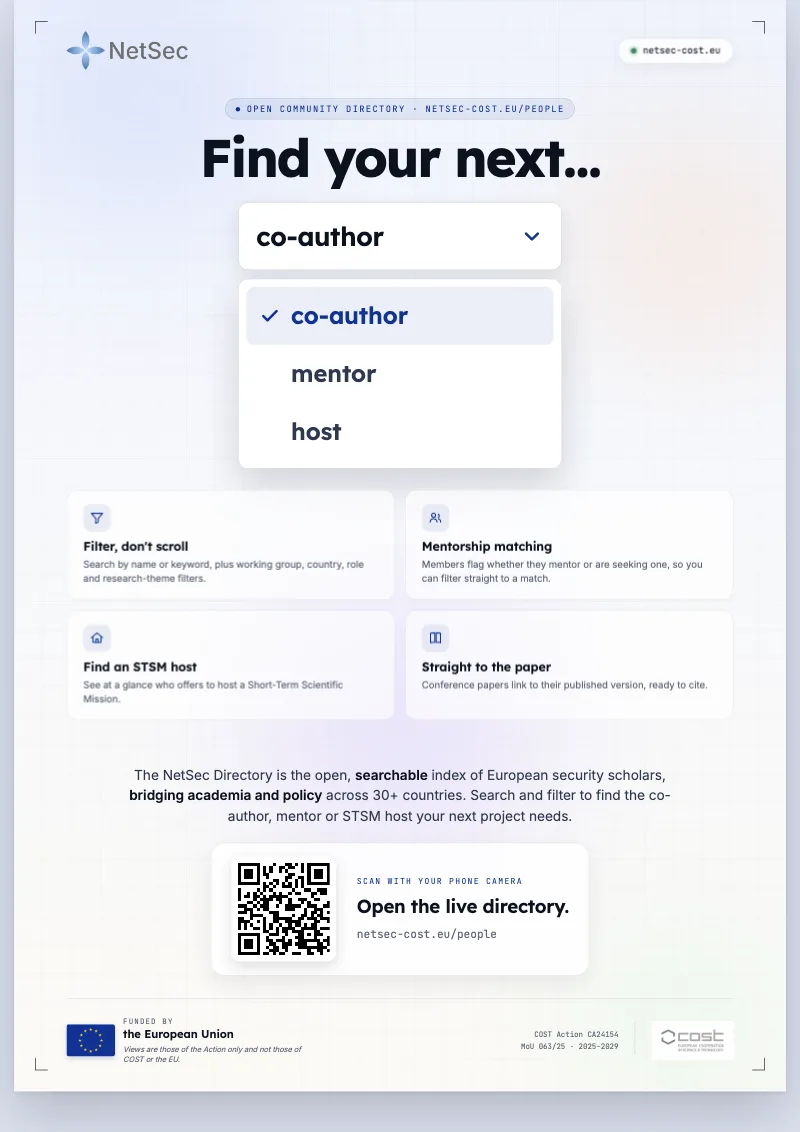
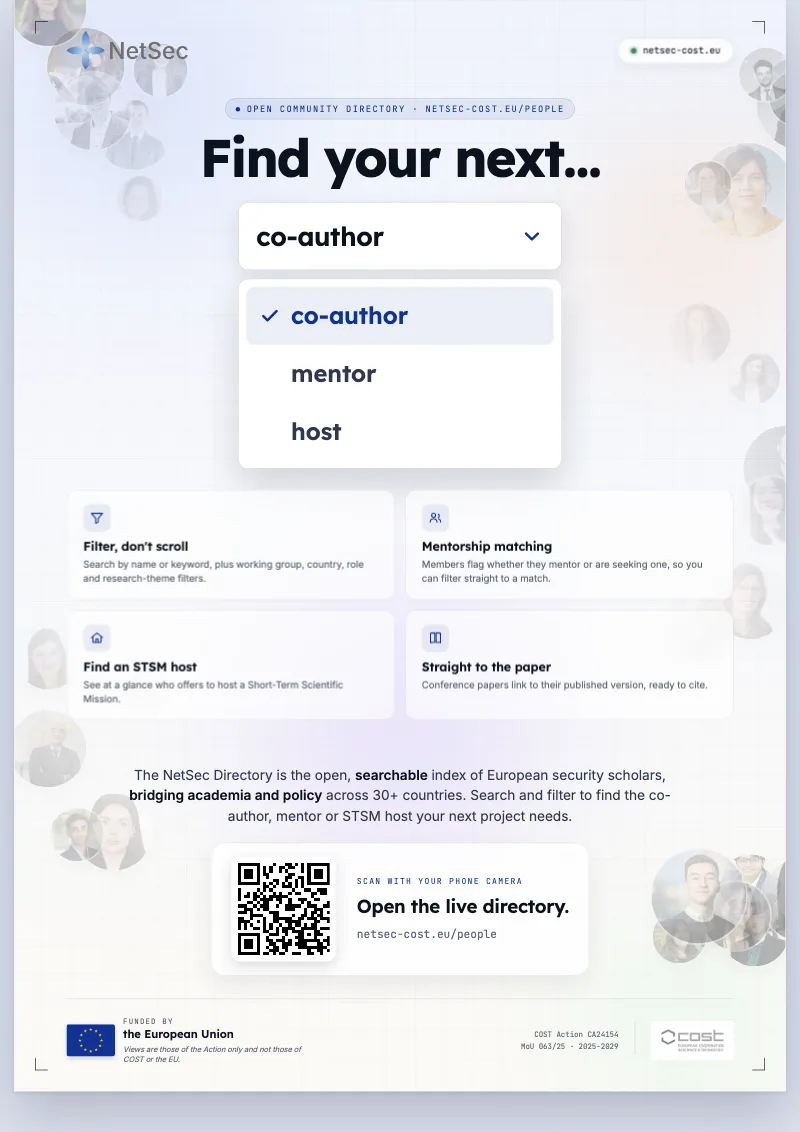
feat(press-kit): float member headshots behind the directory-search poster
The directory-search poster now carries a soft frame of member
headshots in its background: circular heads drift down the left and
right margins and corners, faded toward the centre with a radial mask
so the title, role selector, capability tiles, and QR stay fully
legible. It puts real faces on the otherwise abstract directory.

Heads are referenced from data/bios.json's photo set by root-relative
path, so the set tracks the directory. Print PNG and small PNG/WebP
previews re-rendered.

diff --git a/docs/promo/poster-find-your-next.html b/docs/promo/poster-find-your-next.html
@@ -140,6 +140,14 @@ h1.title .l{display:block}
 .qr-band .qr-side .qr-lab{font-family:var(--mono);font-size:13px;text-transform:uppercase;letter-spacing:.16em;color:var(--accent);margin-bottom:9px}
 .qr-band .qr-side .qr-h{font-family:var(--serif);font-weight:600;font-size:30px;letter-spacing:-.015em;color:var(--ink);margin-bottom:8px}
 .qr-band .qr-side .qr-u{font-family:var(--mono);font-size:18px;color:var(--muted)}
+
+  /* Floating member heads framing the content (left/right gutters), softly masked */
+  .faces{position:absolute;inset:0;z-index:1;overflow:hidden;pointer-events:none;
+    -webkit-mask-image:radial-gradient(122% 100% at 50% 44%, transparent 30%, rgba(0,0,0,.6) 56%, #000 100%);
+            mask-image:radial-gradient(122% 100% at 50% 44%, transparent 30%, rgba(0,0,0,.6) 56%, #000 100%)}
+  .faces .fh{position:absolute;border-radius:50%;overflow:hidden;opacity:.5;
+    box-shadow:0 9px 24px rgba(11,18,32,.12),0 0 0 3px rgba(255,255,255,.82)}
+  .faces .fh img{width:100%;height:100%;object-fit:cover;display:block;filter:saturate(.94)}
 </style>
 </head>
 <body>
@@ -151,6 +159,38 @@ h1.title .l{display:block}
       <div class="blob b-warm"  style="width:620px;height:620px;right:-160px;top:80px"></div>
       <div class="blob b-violet" style="width:820px;height:820px;left:50%;top:760px;transform:translateX(-50%)"></div>
       <div class="blob b-mint"  style="width:520px;height:520px;right:-90px;bottom:-150px;opacity:.45"></div>
+    </div>
+    <div class="faces">
+      <div class="fh" style="left:53px;top:45px;width:124px;height:124px;transform:rotate(6deg)"><img src="/assets/images/people/revecca-pedi.webp" alt="" loading="eager"></div>
+      <div class="fh" style="left:88px;top:808px;width:86px;height:86px;transform:rotate(1deg)"><img src="/assets/images/people/sara-russo.webp" alt="" loading="eager"></div>
+      <div class="fh" style="left:-8px;top:1141px;width:124px;height:124px;transform:rotate(3deg)"><img src="/assets/images/people/seyithan-ahmet-ates.webp" alt="" loading="eager"></div>
+      <div class="fh" style="left:130px;top:149px;width:124px;height:124px;transform:rotate(4deg)"><img src="/assets/images/people/alexander-lanoszka.webp" alt="" loading="eager"></div>
+      <div class="fh" style="left:1120px;top:903px;width:124px;height:124px;transform:rotate(7deg)"><img src="/assets/images/people/chiara-libiseller.webp" alt="" loading="eager"></div>
+      <div class="fh" style="left:1145px;top:563px;width:86px;height:86px;transform:rotate(5deg)"><img src="/assets/images/people/silvia-damato.webp" alt="" loading="eager"></div>
+      <div class="fh" style="left:64px;top:117px;width:124px;height:124px;transform:rotate(-3deg)"><img src="/assets/images/people/john-helferich.webp" alt="" loading="eager"></div>
+      <div class="fh" style="left:1135px;top:1443px;width:110px;height:110px;transform:rotate(-3deg)"><img src="/assets/images/people/rusudan-zabakhidze.webp" alt="" loading="eager"></div>
+      <div class="fh" style="left:0px;top:998px;width:110px;height:110px;transform:rotate(-5deg)"><img src="/assets/images/people/linde-desmaele.webp" alt="" loading="eager"></div>
+      <div class="fh" style="left:1037px;top:951px;width:110px;height:110px;transform:rotate(-7deg)"><img src="/assets/images/people/moritz-weiss.webp" alt="" loading="eager"></div>
+      <div class="fh" style="left:1134px;top:1373px;width:98px;height:98px;transform:rotate(2deg)"><img src="/assets/images/people/archishman-goswami.webp" alt="" loading="eager"></div>
+      <div class="fh" style="left:1193px;top:90px;width:152px;height:152px;transform:rotate(-6deg)"><img src="/assets/images/people/filip-ejdus.webp" alt="" loading="eager"></div>
+      <div class="fh" style="left:1202px;top:1377px;width:138px;height:138px;transform:rotate(-6deg)"><img src="/assets/images/people/anna-pagnacco.webp" alt="" loading="eager"></div>
+      <div class="fh" style="left:98px;top:1275px;width:124px;height:124px;transform:rotate(3deg)"><img src="/assets/images/people/yanina-shved-dogrul.webp" alt="" loading="eager"></div>
+      <div class="fh" style="left:1105px;top:1417px;width:110px;height:110px;transform:rotate(7deg)"><img src="/assets/images/people/gil-baram.webp" alt="" loading="eager"></div>
+      <div class="fh" style="left:971px;top:895px;width:98px;height:98px;transform:rotate(-5deg)"><img src="/assets/images/people/mark-rhinard.webp" alt="" loading="eager"></div>
+      <div class="fh" style="left:192px;top:70px;width:86px;height:86px;transform:rotate(5deg)"><img src="/assets/images/people/meret-steybe.webp" alt="" loading="eager"></div>
+      <div class="fh" style="left:1026px;top:1462px;width:86px;height:86px;transform:rotate(-1deg)"><img src="/assets/images/people/laura-lisboa.webp" alt="" loading="eager"></div>
+      <div class="fh" style="left:1214px;top:115px;width:86px;height:86px;transform:rotate(0deg)"><img src="/assets/images/people/francesco-canossi.webp" alt="" loading="eager"></div>
+      <div class="fh" style="left:1102px;top:230px;width:152px;height:152px;transform:rotate(-1deg)"><img src="/assets/images/people/chiara-ruffa.webp" alt="" loading="eager"></div>
+      <div class="fh" style="left:1172px;top:684px;width:138px;height:138px;transform:rotate(7deg)"><img src="/assets/images/people/lucian-bumeder.webp" alt="" loading="eager"></div>
+      <div class="fh" style="left:1078px;top:259px;width:74px;height:74px;transform:rotate(-5deg)"><img src="/assets/images/people/nikolaos-tzifakis.webp" alt="" loading="eager"></div>
+      <div class="fh" style="left:58px;top:1298px;width:86px;height:86px;transform:rotate(-7deg)"><img src="/assets/images/people/saurav-narain.webp" alt="" loading="eager"></div>
+      <div class="fh" style="left:1053px;top:488px;width:98px;height:98px;transform:rotate(-7deg)"><img src="/assets/images/people/sarka-kolmasova.webp" alt="" loading="eager"></div>
+      <div class="fh" style="left:154px;top:1044px;width:98px;height:98px;transform:rotate(2deg)"><img src="/assets/images/people/eliza-gheorghe.webp" alt="" loading="eager"></div>
+      <div class="fh" style="left:1024px;top:1364px;width:152px;height:152px;transform:rotate(1deg)"><img src="/assets/images/people/pieter-zhao.webp" alt="" loading="eager"></div>
+      <div class="fh" style="left:1163px;top:767px;width:110px;height:110px;transform:rotate(-6deg)"><img src="/assets/images/people/wendy-he.webp" alt="" loading="eager"></div>
+      <div class="fh" style="left:1165px;top:77px;width:86px;height:86px;transform:rotate(-6deg)"><img src="/assets/images/people/eugenio-sanchez.webp" alt="" loading="eager"></div>
+      <div class="fh" style="left:165px;top:282px;width:74px;height:74px;transform:rotate(-2deg)"><img src="/assets/images/people/marie-robin.webp" alt="" loading="eager"></div>
+      <div class="fh" style="left:-8px;top:-50px;width:124px;height:124px;transform:rotate(-5deg)"><img src="/assets/images/people/julia-carver.webp" alt="" loading="eager"></div>
     </div>
     <span class="corner tl"></span><span class="corner tr"></span>
     <span class="corner bl"></span><span class="corner br"></span>

diff --git a/CHANGELOG.md b/CHANGELOG.md
@@ -123,7 +123,7 @@ maintainer-facing audience.
 ## [Unreleased]
 
 #### Added
-- A third press-kit poster, the directory-search poster (`docs/promo/poster-find-your-next.html`, A4 portrait), promotes what the Directory lets you do rather than recruiting bios. It reuses the "Find your next…" headline over the directory's role selector (co-author, mentor or host), four capability tiles (filter the directory, mentorship matching, find an STSM host, papers that link to their published version), and a QR code that opens the directory at `netsec-cost.eu/people`. The original "Add your bio" directory poster is unchanged. Listed on the press kit in all three locales with print-PNG and small-PNG downloads, hand-translated for FR and DE.
+- A third press-kit poster, the directory-search poster (`docs/promo/poster-find-your-next.html`, A4 portrait), promotes what the Directory lets you do rather than recruiting bios. It reuses the "Find your next…" headline over the directory's role selector (co-author, mentor or host), four capability tiles (filter the directory, mentorship matching, find an STSM host, papers that link to their published version), and a QR code that opens the directory at `netsec-cost.eu/people`. The original "Add your bio" directory poster is unchanged. Listed on the press kit in all three locales with print-PNG and small-PNG downloads, hand-translated for FR and DE. Its background carries a soft frame of member headshots, drifting down the margins to put real faces on the directory.
 - The News system gains a working archive and issue-driven publishing, bringing it to parity with the sister EISS site. The `/news` page (all three locales) now renders the full chronological list of items from `data/news.json` (each card deep-linkable at `#news-<id>`), where it was a static "archive is empty" placeholder; the home-page "Latest News" block now caps at four items and decays anything older than 18 months, so older items live on in the archive and the RSS feed. Labelling a GitHub issue `news` now publishes it: a workflow reads the issue (with optional `Type:`/`URL:`/`Date:` headers), prepends the item to `data/news.json`, regenerates the feed, and opens an auto-merging PR that closes the issue. Documented in `docs/news-publishing.md`.
 - The Training School page (`/summer-school.html`, all three locales) is rebuilt around editions rather than a single year. It now carries the COST-compliant name "NetSec Training School" (with the Early-Career Scholars Summer School / ECS³ as the subtitle), a forward-looking "next edition" module, and a "past editions" archive, both driven by a new `data/training-school.json` through a light renderer. The next-edition module shows the 2027 edition as "to be announced" with no calendar yet; when an edition is announced with a date, an Add-to-calendar affordance appears on its own. The 2026 archive entry carries the cohort, coordinators, topics, and a photo gallery from the Stockholm edition. The page links directly to EISS's Euro-SWAMOS page, Julia Carver (a Working Group participant) joins the directory so her faculty headshot resolves, and Nicolas Blarel's faculty card now carries his photo. Hand-translated for FR and DE.
 - An "In pictures" photo gallery on the archived ESSC 2026 page (all three locales), between the recap reel and the programme, so the past-conference page reads as a livelier record. The four photos are responsive and lazy-loaded. Training School signposting also improved across the site: a cross-link from the Grants page (the early-career audiences overlap), and the home news card and the visual sitemap now use the "Training School" name. Hand-translated for FR and DE.
